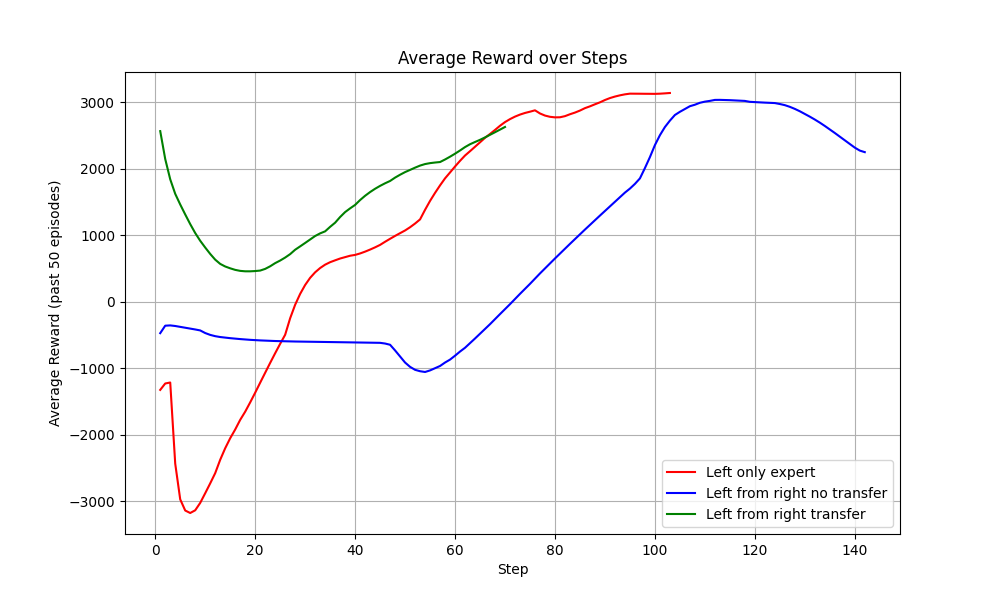
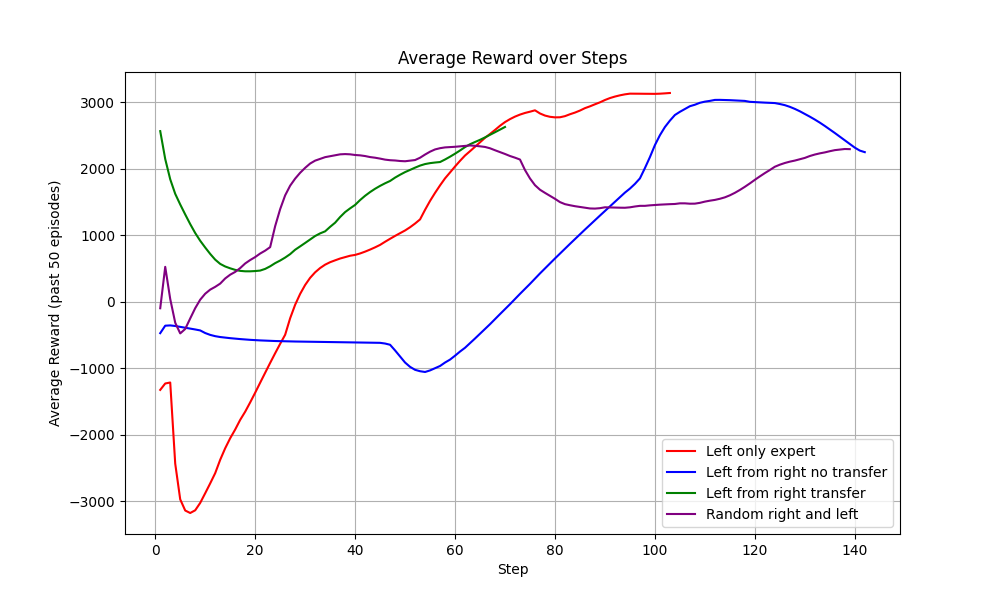
Conclusion and future work.

diff --git a/results.tex b/results.tex
@@ -2,8 +2,8 @@
 % !TEX root = main.tex
 
 \chapter{Results}
-\subsection{Carla}
-On CARLA experiment it was possible to train up to 32.000 iterations which took around 32 hours of training, however, due to technical difficulties related with the hardware, and the model being computationally expensive, it was not possible to train any further, the simulator requires 6Gb of video memory out of the 8 that comes with the Nvidia 4060 ti, which only leaves 2Gb of memory to train. Even though as shown in figure the reward seems to go up, the variance through episodes is too high and the agent doesn't take any action that from a human perspective is ideal. From this point, it was decided to not move forward this simulator.
+\section{Carla}
+From the CARLA experiment we trained up to 32.000 iterations which took around 32 hours of training, however, due to technical difficulties related with the hardware, and the model being computationally expensive, it was not possible to train any further, the simulator requires 6Gb of video memory out of the 8 that comes with the Nvidia 4060 ti, which only leaves 2Gb of memory to train. Even though as shown in figure the reward seems to go up, the variance through episodes is too high and the agent does not take any action that from a human perspective is ideal. From this point, it was decided to not move forward this simulator.
 
 \begin{figure}[h]
     \centering
@@ -11,28 +11,33 @@ On CARLA experiment it was possible to train up to 32.000 iterations which took 
     \caption{CARLA TD3 Cybertruck train log, 14000 iterations.}
 \end{figure}
 
-\subsection{Gazebo ROS}
-All agents were trained until they reach the final goal 10 times in a row without crashing. The right experiment took around 6 hours to train, maximum the average reward was 3150 as shown in \fref{fig:gazebo_right_avg}.
+\section{Gazebo ROS}
+All agents are trained until they reach the final goal 10 times in a row without crashing.
+
+\subsection{Single responsibility agents}
+The agent expert to drive on the right-side lane took 149 steps to achieve the goal and took 5.82 hours to train with a final average reward of 2621 as shown in \fref{fig:gazebo_right_avg}.
 
 \begin{figure}[h]
     \centering
     \includegraphics[width=0.65\textwidth]{./figures/rigth_no_tl_avg_reward_past_50_episodes.png}
-    \caption{Gazebo ROS right agent train log, Reward gained per episode.} 
+    \caption{Gazebo ROS right agent train log, average reward gained per episode.} 
     \label{fig:gazebo_right_avg} 
 \end{figure}
 
-The left experiment took around 8 hours to train, the maximum average reward was 3108 as shown in \fref{fig:gazebo_left_avg}. Even though this experiments took less steps to train, the time it took was longer, this is because the environment ends a step only when there is a crash, so it's episodes could be longer than the right agent.
+Training the agent to drive on the lef took 3.461 hours to train with a final average reward of 2155 as shown in \fref{fig:gazebo_left_avg}. In this experiment the agent takes took less steps to train and less time to train.
 
-\begin{figure}[h]
+\begin{figure}[!htb]
     \centering
     \includegraphics[width=0.65\textwidth]{./figures/left_no_tl_avg_reward_past_50_episodes.png}
-    \caption{Gazebo ROS left agent train log, Reward gained per episode.} 
+    \caption{Gazebo ROS left agent train log, average reward gained per episode.} 
     \label{fig:gazebo_left_avg}
 \end{figure}
 
-We can see in \fref{fig:gazebo_right_avg} and \fref{fig:gazebo_left_avg} a tendency of the reward to go down on the first episodes before it starts to go up, this is a common behavior in  TD3\cite{TD3} and DDPG\cite{ddpg} algorithms.
+Figures \ref{fig:gazebo_right_avg} and \ref{fig:gazebo_left_avg} show similar trend for the behavior of the reward to go down on the first episodes before it starts to go up, this is a common behavior in  TD3 \cite{TD3} and DDPG \cite{ddpg} algorithms.
+\FloatBarrier
 
-Once we have the expert agents trained, we are going to use the right expert agent to keep training in the other paradigm without expert demonstration learning to have a baseline to compare the results. The agent took around 8 hours to train from the base expert and the maximum reward it achieved was 3150 and the full training can be seen in \fref{fig:gazebo_right_left_avg}.
+\subsection{Training agents from previous trained agents}
+The left agent that started from right agent as baseline took 103 steps and 3.59 hours to train from the base expert and the maximum reward it achieved was 3150 and the full training can be seen in \fref{fig:gazebo_right_left_avg}.
 
 \begin{figure}[h]
     \centering
@@ -41,23 +46,34 @@ Once we have the expert agents trained, we are going to use the right expert age
     \label{fig:gazebo_right_left_avg}
 \end{figure}
 
-In \fref{fig:gazebo_right_left_avg} we can see the transition between the expert agent and its continuation to the other side, We can see here that it took less steps than training the agent from 0. Notice how the reward goes down again at the beginning of both training, once again, this is a characteristic of the TD3 algorithm.
+\fref{fig:gazebo_right_left_avg} shows the transition between the expert agent and its continuation to drive on the other side of the road, We can see that retraining the agent to now drive on both sides, takes less steps than training the agent to drive on the left from scratch. Notice how the reward goes down again at the beginning of both training. Following the characteristic of the TD3 algorithm.
 
-The next agent was trained from the expert right agent on the left environment, this time using \fref{eq: pre train gradient pi} and \fref{eq: pre train gradient Q} as part of the training process, this agent took around 1.6 hours to train and the maximum reward it achieved was 3150, the full training can be seen in \fref{fig:gazebo_right_left_transfer}.
+The following agent was trained from scratch and starting in the right environment, however, every random number of episodes, the environment was change paradigms, this agent took 3.413 hours, and the maximum reward it achieved was 2311, the full training graph can be seen in \fref{fig:gazebo_random}.
+
+\begin{figure}[h]
+    \centering
+    \includegraphics[width=0.65\textwidth]{./figures/random_both.png}    
+    \caption{Gazebo ROS random agent train log. Average reward gained per episode.}
+    \label{fig:gazebo_random}
+\end{figure}
+
+The agent was able to learn both paradigms, However, it took more time than the agents that only had to learn one paradigm, this is because the agent was trained from scratch and it had to learn both paradigms at the same time, which made it harder for the agent to learn.
+
+The next agent was trained from the expert right agent on the left environment, this time using \fref{eq: pre train gradient pi} and \fref{eq: pre train gradient Q} as part of the training process, this agent took 1.929 hours to train and the maximum reward it achieved was 2788, the full training can be seen in \fref{fig:gazebo_right_left_transfer}.
 
 \begin{figure}[h]
     \centering
     \includegraphics[width=0.65\textwidth]{./figures/tl_right_expert_left_environment.png}
-    \caption{Gazebo ROS transfer learning agent train log.} 
+    \caption{Gazebo ROS transfer learning agent train log, average reward gained per episode.} 
     \label{fig:gazebo_right_left_transfer}
 \end{figure}
 
-We can put these 3 results together, the right left agent, the left right agent that learned from the right expert agent and the left agent that learned with transfer learning .
+We can put the last 4 results together, the right agent, the left agent that learned from the right expert agent with no transfer learning, the agent that learned both paradigms at the same time and the left agent that learned with transfer learning .
 
 \begin{figure}[h]
     \centering
     \includegraphics[width=0.68\textwidth]{figures/comparison_1.png}
-    \caption{Gazebo ROS comparison of the 3 agents.} 
+    \caption{Gazebo ROS comparison of the 4 agents.} 
     \label{fig:gazebo_transfer_learning_comparison}
 \end{figure}
 
@@ -68,5 +84,49 @@ In terms of time there is also a clear difference as shown in , the agent that l
 \begin{figure}[h]
    \centering
    \includegraphics[width=0.6\textwidth]{figures/time_comparison_1.png}
-   \caption{Gazebo ROS comparison of the 3 agents in terms of time.} 
+   \caption{Gazebo ROS comparison of the 4 agents in terms of time.} 
 \end{figure}
+
+\subsection{Transfer learning metrics}
+We can replace the results from the experiments in Equations \ref{eq:tl_metrics} for each of the agents, for the right agent we have:
+
+\begin{equation}
+   \centering
+    \begin{split}
+        \text{Transfer ratio} & = \frac{2621}{2788} = 0.9401 \\
+        Mastery               & = 2788                                         \\
+        Pedagogy              & = 149 - 70 = 79\\
+    \end{split}
+\end{equation}
+
+For the left agent that learned from the right agent with no transfer learning we have:
+
+\begin{equation}
+   \centering
+    \begin{split}
+        \text{Transfer ratio} & = \frac{2621}{3150} = 0.8320 \\
+        Mastery               & = 2788                                         \\
+        Pedagogy              & = 103 - 70 = 79\\
+    \end{split}
+\end{equation}
+
+For the agent that learned both paradigms at the same time we have:
+
+\begin{equation}
+   \centering
+    \begin{split}
+        \text{Transfer ratio} & = \frac{2621}{2288} = 1.1455 \\
+        Mastery               & = 2788                                         \\
+        Pedagogy              & = 139 - 70 = 79\\
+    \end{split}
+\end{equation}
+
+\section{Threats to Validity}
+\label{sec:threats}
+In this section, we discuss the potential threats to the validity of our evaluation. While our experimental framework provides valuable insights into transfer learning for autonomous driving agents, it is important to acknowledge certain limitations that may affect the generalization and interpretation of our results. Experimental design choices, training procedures, and environmental constraints can all introduce potential biases or limitations. In this section, we discuss the primary threats to the validity of our evaluation and their potential impact on our findings.
+\begin{itemize}
+\item \textbf{Experiment Termination Criterion:} Our experiment termination criterion may impact result generalization. We stop an experiment when the agent successfully completes the driving course 10 consecutive times without crashes, regardless of its performance in terms of reward or efficiency metrics. This approach prioritizes safety over optimization, which may result in agents that achieve basic competence but not optimal performance.
+\item \textbf{Continuous Expert Demonstrations:} We continuously provide expert demonstrations throughout the training process rather than gradually reducing them. This persistent guidance may create a dependency where agents struggle to outperform the experts they are being trained with, potentially limiting their ability to discover novel or more efficient driving strategies.
+
+\item \textbf{Environmental maximum reward:} The maximum reward in the environment is achievable by an expert driver, and this reward is not that far from non optimal policies, this means that the agent can learn to drive in a way that is not optimal but still achieve a high reward, this is a common problem in reinforcement learning and it is known as the reward hacking problem \cite{reward_hacking}. For the Transfer ratio metric this could be a limitation.
+\end{itemize}

diff --git a/conclusion.tex b/conclusion.tex
@@ -1,4 +1,35 @@
 % $Id:conclusion.tex  $
 % !TEX root = main.tex
 \chapter{conclusion}
-Here comes the conclusion.
+This research investigated the application of transfer learning techniques to autonomous driving systems, focusing specifically on how knowledge from one driving paradigm (right-side driving) can be effectively transferred to another (left-side driving). Our experiments in controlled simulated environments yielded several important findings regarding the efficacy of transfer learning in accelerating adaptation to new driving conditions.
+
+Our experiments clearly demonstrate that transfer learning significantly enhances training efficiency when autonomous agents must adapt to new driving paradigms. The initial attempts with the CARLA simulator highlighted the computational challenges of training complex driving agents, with high variance in rewards and suboptimal behavior even after 32 hours of training. This reinforced our decision to focus on the Gazebo ROS environment, which provided a more controlled setting for our experiments.
+
+In the Gazebo environment, we established a comprehensive benchmark by first training specialized expert agents for both right-side and left-side driving independently. The right-side expert required 149 steps (5.82 hours) to achieve competence with an average reward of 2621, while the left-side expert reached competence in 3.461 hours with an average reward of 2155. These baselines allowed us to quantitatively evaluate the benefits of transfer learning.
+
+The agent that utilized transfer learning techniques (implementing the gradient transfer equations) to transition from right-side to left-side driving achieved competence in just 1.929 hours, considerably faster than the 3.461 hours required by the agent learning left-side driving from scratch. This represents a $44.3\%$ reduction in training time, clearly validating our hypothesis that knowledge transfer accelerates adaptation to new driving conditions.
+
+The transfer ratio metrics provide additional quantitative support for the effectiveness of our approach. The transfer learning agent achieved a transfer ratio of 0.9401, indicating substantial knowledge preservation between paradigms. This performance is notably superior to the agent that learned both paradigms simultaneously (transfer ratio of 1.1455), demonstrating that sequential knowledge transfer is more effective than concurrent learning for this particular task.
+
+In terms of pedagogy, our transfer learning approach reduced the number of training steps required to achieve competence by approximately $53\%$ compared to training from scratch (70 steps versus 149 steps for the right-side expert). This reduction in required training iterations directly translates to more efficient use of computational resources and simulation time.
+
+The mastery metric revealed that the transfer learning agent maintained high performance levels (2788 reward), comparable to independently trained expert agents. This indicates that knowledge transfer did not compromise the quality of the learned behavior, which is crucial for safety-critical applications like autonomous driving. Interestingly, the left agent that learned from the right agent without formal transfer learning techniques achieved an even higher maximum reward (3150), suggesting that there might be additional benefits to exploring hybrid approaches.
+
+\section{Research Objectives Achievement}
+Revisiting our initial research objectives, we can conclude that:
+
+\begin{enumerate}
+    \item \textbf{Effective knowledge transfer between driving paradigms:} We successfully demonstrated that knowledge gained from right-side driving can be effectively transferred to left-side driving. The implementation of transfer learning equations (\ref{eq: pre train gradient pi} and \ref{eq: pre train gradient Q}) provided a formal mechanism for this knowledge transfer, resulting in clear improvements in training efficiency and performance metrics.
+
+    \item \textbf{Reduction in training requirements:} The application of transfer learning techniques reduced training time requirements by 44.3\% (from 3.461 to 1.929 hours) and simulation steps by 53\% (from 149 to 70 steps), meeting our goal of optimizing model adaptation to lane change paradigms. These significant reductions demonstrate the practical utility of transfer learning in autonomous driving development.
+
+    \item \textbf{Comparative analysis with agents learning from scratch:} Our experiments allowed for direct comparison between agents utilizing transferred knowledge and those learning from scratch. The transfer learning agent not only learned faster but also achieved comparable or superior performance metrics. The agent learning both paradigms simultaneously (transfer ratio of 1.1455) required more time and achieved lower rewards, highlighting the advantage of sequential knowledge transfer.
+
+    \item \textbf{Evaluation of expert demonstration efficacy:} The quantitative analysis using our three metrics: transfer ratio (0.9401), mastery (2788), and pedagogy (79 steps saved) provided empirical evidence that agents utilizing expert demonstrations can replicate and even potentially surpass expert-level behaviors in new environments.
+
+    \item \textbf{Comparative analysis of different knowledge transfer approaches:} We compared formal transfer learning (using gradient transfer equations) with the more straightforward approach of continuing training on a new task. Notably, the agent that learned from the right expert without formal transfer learning techniques achieved a higher maximum reward (3150), suggesting that different knowledge transfer strategies may be optimal depending on specific objectives.
+
+    \item \textbf{Development of quantitative evaluation framework:} Through our definition and application of transfer ratio, mastery, and pedagogy metrics, we established a quantitative framework for evaluating transfer learning effectiveness in autonomous driving contexts, which can be applied to future research in this domain.
+\end{enumerate}
+
+The results clearly demonstrate that transfer learning can significantly improve the efficiency of training autonomous driving agents. The combination of reduced training time, fewer required simulation steps, and maintained or improved performance metrics validates our approach to leveraging knowledge transfer between different driving paradigms.

diff --git a/future-work.tex b/future-work.tex
@@ -1,4 +1,35 @@
-% $Id:conclusion.tex  $
+% $Id:furute-work.tex  $
 % !TEX root = main.tex
-\chapter{Future work}
-Here comes the future work.
+
+\chapter{Limitations and future work}
+Despite these promising results, several limitations were identified that warrant further investigation. As discussed in Section \ref{sec:threats}, our experimental design contained some inherent limitations:
+
+\begin{itemize}
+    \item \textbf{Experiment termination criterion:} By stopping experiments when agents successfully completed 10 consecutive runs without crashes, we prioritized safety over optimization. While this ensured reliable performance, it may have resulted in agents achieving basic competence rather than optimal performance. Future work should explore more sophisticated termination criteria that balance safety with performance optimization.
+
+    \item \textbf{Continuous expert demonstrations:} The persistent guidance from expert demonstrations throughout training may have created a dependency that limited agents' ability to discover novel or more efficient driving strategies. Future studies should implement a scheduled reduction in expert demonstrations to promote greater agent independence.
+    
+    \item \textbf{Environmental reward structure:} As noted in our threats to validity, the relatively small gap between optimal and suboptimal policy rewards (reward hacking problem) may have affected our transfer ratio metric. This highlights the need for more discriminative reward structures in future experiments.
+    
+    \item \textbf{Simulation complexity:} Our initial attempts with CARLA revealed the challenges of working with highly complex simulation environments. While Gazebo ROS provided a controlled environment suitable for our study, the simplified nature of this environment may limit the generalization of our findings to real-world driving scenarios.
+    
+\end{itemize}
+
+Based on our findings, future research directions should include:
+
+\begin{itemize}
+    \item \textbf{Leave learning agent the expert demonstrations:} Future experiments should keep the training of the agents but not the expert demonstrations, this way we can see how the agent performance can grow more than the expert agent and how the agent can learn to drive better than the expert agent. This will also help to see if the agent can learn to drive in a more efficient way than the expert agent.
+
+    \item \textbf{Use of more complex environments:} Future work should explore the use of more complex environments, such as CARLA, to evaluate the transfer learning approach in real-world scenarios. This will help assess the generalization of our findings and their applicability to real-world driving conditions.
+
+\end{itemize}
+
+\section{Final remarks}
+The significant reductions in training time (44.3\%) and simulation steps (53\%) achieved through our transfer learning approach demonstrate its potential to accelerate the development and deployment of autonomous driving systems across diverse environments. In resource-constrained development contexts, such efficiencies could substantially reduce computational costs and development timelines.
+
+Our experimental findings address the fundamental question of whether skills learned in one driving paradigm can be effectively leveraged to accelerate learning in another paradigm. The clear performance advantages observed in our transfer learning agents provide strong evidence that autonomous systems can indeed benefit from such knowledge transfer, mirroring the human ability to adapt prior driving experience to new road conditions.
+
+The quantitative metrics we established—transfer ratio, mastery, and pedagogy—provide a framework for evaluating knowledge transfer effectiveness in reinforcement learning applications beyond autonomous driving. These metrics offer a standardized approach for measuring how effectively knowledge from one domain can be applied to another, which is valuable for benchmarking different transfer learning techniques across various autonomous system applications. From a practical perspective, our work demonstrates that even with relatively straightforward transfer learning implementations, significant gains in training efficiency can be achieved.
+
+In conclusion, our research demonstrates that transfer learning represents a powerful approach for enhancing the adaptability and efficiency of autonomous driving systems. The empirical evidence presented supports the value of knowledge transfer between different driving paradigms, particularly in reducing the time resources required for training while maintaining high performance levels. This approach brings us closer to the goal of developing autonomous vehicles capable of seamlessly adapting to diverse driving conditions and environments, a critical capability for the deployment of autonomous robots.
+

diff --git a/evaluation.tex b/evaluation.tex
@@ -104,7 +104,7 @@ The function takes several inputs:
 
 The integration of these factors with adjustable weight parameters, produces a single reward value. This reward helps the robot make better navigation decisions by encouraging smooth directional adjustments, goal-focused movement, and minimizing unnecessary deviations.
 
-To visualize and enact the driving paradigm change, we use an environment of a roundabout with line tracks emulated by walls as shown in \fref{fig:gazebo_tb3_environment}. The blue layer represent what the robot "sees" through the Lidar scans. For each episode the robot is going to start from one end of the environment and should learn to go to the other end of the environment following only one side of the road. Another agent is trained with brand new actor and critic models to follow the other side of the road so at the end there are two agents, one that effective drives following the right side and the other agent that drives following the left side lane.
+To visualize and enact the driving paradigm change, we use an environment of a roundabout with line tracks emulated by walls as shown in \fref{fig:gazebo_tb3_environment}. The blue layer represent what the robot "sees" through the Lidar scans.
 
 \begin{figure}[h]
     \centering
@@ -113,7 +113,10 @@ To visualize and enact the driving paradigm change, we use an environment of a r
     \label{fig:gazebo_tb3_environment}
 \end{figure}
 
-Once the two agents are trained, The expert agents have to transfer the knowledge  to the new agents via transfer learning using equations \ref{eq: pre train gradient pi} and \ref{eq: pre train gradient Q} and measuring the transferred knowledge by 3 metrics given by Equation \ref{eq:tl_metrics}.
+\section{Experiment Design and metrics to measure}
+The experimental setup consists of multiple training phases. First, we trained two independent expert agents: one that learns to navigate exclusively on the right side of the road and another that learns to navigate exclusively on the left side. These experts start from one end of the environment and learn to reach the other end while maintaining their respective lane positions. After establishing these baseline experts, we conducted three additional training experiments: the first one, training a new agent to drive on the left side using the right-side expert as a knowledge base. The second, training a new agent to drive on the right side using the left-side expert as a knowledge base, and a final expert based training, a comprehensive agent that learns to navigate both sides of the road simultaneously. Each of these three agents was initialized with brand new actor and critic models. This progressive approach allows us to evaluate the effectiveness of transfer learning between different driving behaviors in the autonomous navigation context.
+
+After establishing the expert agents, we conducted one final experiment focusing specifically on transfer learning. In this experiment, we trained a new agent to drive on the left side of the road by leveraging knowledge from the previously trained left-side expert. Unlike the independent training approach, this agent employed transfer learning techniques using the policy gradient transfer defined in Equation \ref{eq: pre train gradient pi} and the Q-function gradient transfer defined in Equation \ref{eq: pre train gradient Q}. To quantitatively evaluate the effectiveness of this knowledge transfer, we measured performance using three metrics as defined in Equation \ref{eq:tl_metrics}. This experiment allowed us to assess whether transfer learning could accelerate the acquisition of driving skills compared to training from scratch.
 
 \begin{equation}
     \centering

diff --git a/title.tex b/title.tex
@@ -10,11 +10,10 @@
 
 
 \newcommand{\Author}{Lucas Gándara Vega}
-\newcommand{\MainTitle}{Evaluation of transfer learning on lane changes in self-driving robots}
+\newcommand{\MainTitle}{Evaluation of transfer learning for driving in road side behavior for self-driving robots}
 \newcommand{\SecondaryTitle}{} % If needed
 \newcommand{\ShortSecondaryTitle}{SHORT TITLE} %If needed
 \newcommand{\PublicDefenceDate}{\today}
-
 
 \titlehead{%
  \begin{minipage}{0.5\textwidth}

diff --git a/main.tex b/main.tex
@@ -7,6 +7,7 @@
 \usepackage{graphicx}
 \usepackage{algorithm2e}
 \usepackage{algpseudocode}
+\usepackage[section]{placeins}
 
 \begin{document}
 
